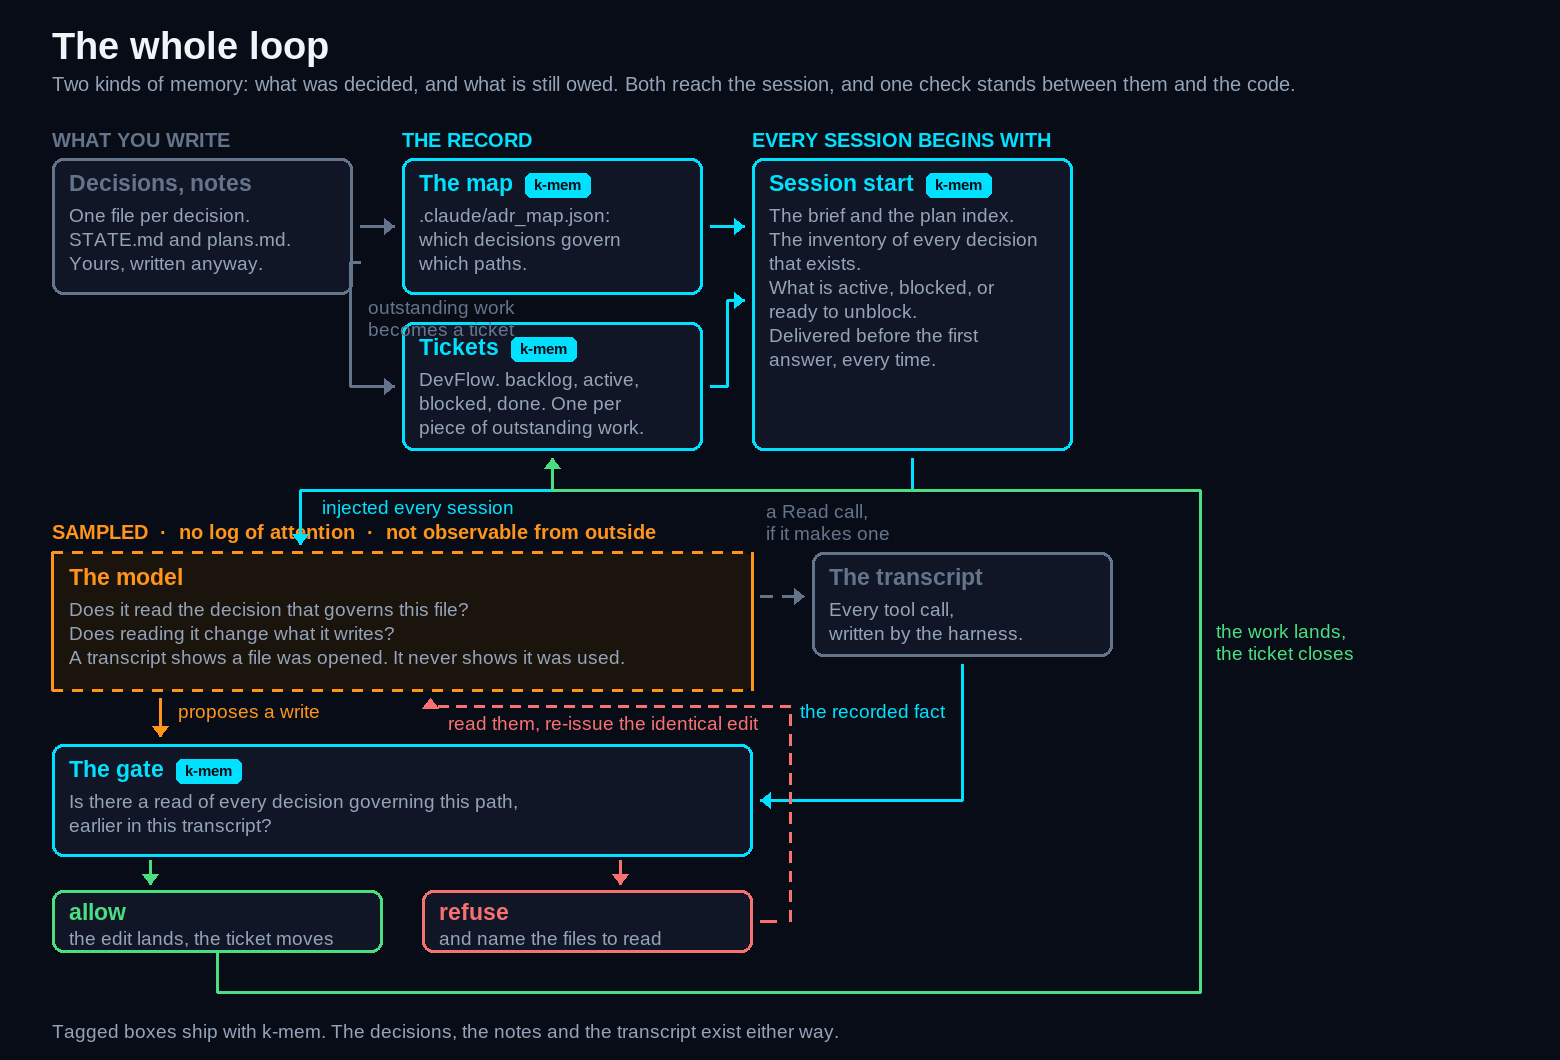
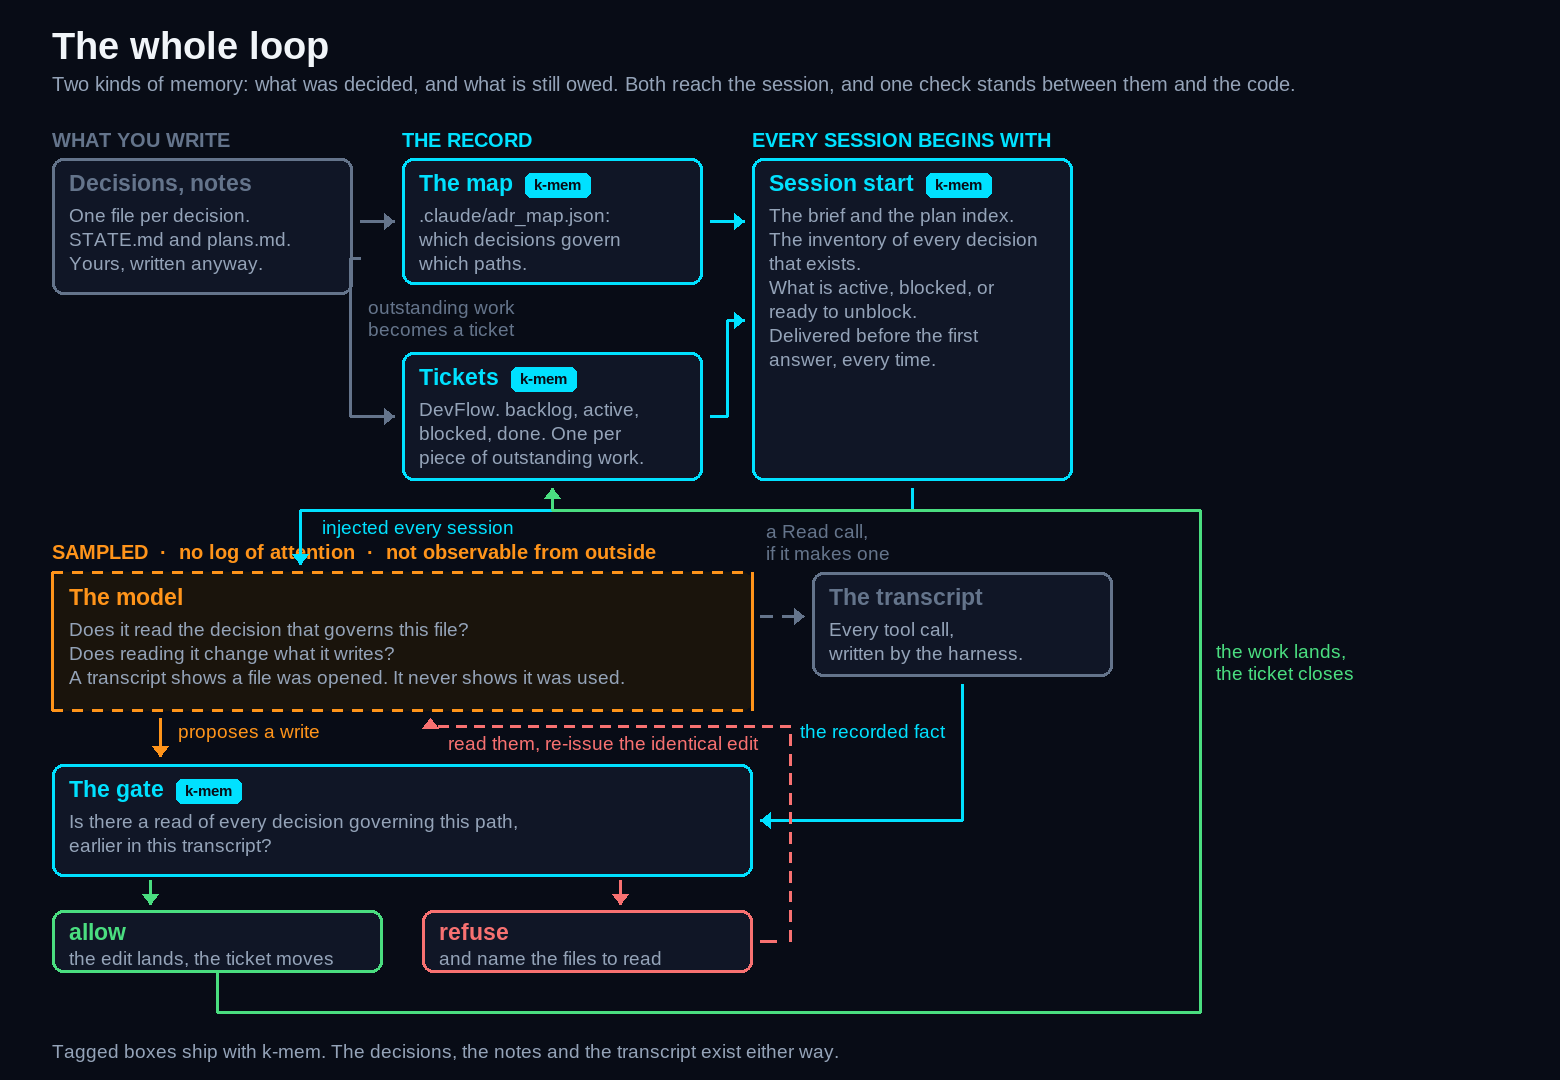
docs: give the ticket label room in the system diagram
"Outstanding work becomes a ticket" had 28 pixels between the map and
the tickets and needed about 50, so it sat across both boxes. The map is
shorter, the tickets sit lower, and everything below moved with them.
The return channel is now y=510.

diff --git a/scripts/make_brand_images.py b/scripts/make_brand_images.py
@@ -300,7 +300,7 @@ def make_system() -> Path:
     x=790 between the gate and the transcript, and x=1200 down the right.
     Nothing crosses a box.
     """
-    W, H = 1560, 1060
+    W, H = 1560, 1080
     im = Image.new("RGBA", (W, H), NAVY + (255,))
     d = ImageDraw.Draw(im)
     f_title = font(SANS_BOLD, 38)
@@ -370,9 +370,9 @@ def make_system() -> Path:
     d.text((402, 128), "THE RECORD", font=f_band, fill=CYAN)
     d.text((752, 128), "EVERY SESSION BEGINS WITH", font=f_band, fill=CYAN)
     card(M, 158, 300, 136, "Decisions, notes", ["One file per decision.", "STATE.md and plans.md.", "Yours, written anyway."], GREY)
-    card(402, 158, 300, 136, "The map", [".claude/adr_map.json:", "which decisions govern", "which paths."], CYAN, mine=True)
-    card(402, 322, 300, 128, "Tickets", ["DevFlow. backlog, active,", "blocked, done. One per", "piece of outstanding work."], CYAN, mine=True)
-    card(752, 158, 320, 292, "Session start", ["The brief and the plan index.",
+    card(402, 158, 300, 126, "The map", [".claude/adr_map.json:", "which decisions govern", "which paths."], CYAN, mine=True)
+    card(402, 352, 300, 128, "Tickets", ["DevFlow. backlog, active,", "blocked, done. One per", "piece of outstanding work."], CYAN, mine=True)
+    card(752, 158, 320, 322, "Session start", ["The brief and the plan index.",
                                                "The inventory of every decision",
                                                "that exists.", "",
                                                "What is active, blocked, or",
@@ -380,52 +380,52 @@ def make_system() -> Path:
                                                "Delivered before the first",
                                                "answer, every time."], CYAN, mine=True)
 
-    path([(M + 308, 226), (394, 226)], GREY)
-    path([(M + 308, 262), (350, 262), (350, 386), (394, 386)], GREY)
-    note(M + 316, 296, "outstanding work|becomes a ticket", GREY)
-    path([(710, 226), (744, 226)], CYAN)
-    path([(710, 386), (727, 386), (727, 300), (744, 300)], CYAN)
+    path([(M + 308, 221), (394, 221)], GREY)
+    path([(M + 308, 258), (350, 258), (350, 416), (394, 416)], GREY)
+    note(368, 296, "outstanding work|becomes a ticket", GREY)
+    path([(710, 221), (744, 221)], CYAN)
+    path([(710, 416), (727, 416), (727, 320), (744, 320)], CYAN)
 
     # --- the model ------------------------------------------------------------
-    d.text((M, 520), "SAMPLED  ·  no log of attention  ·  not observable from outside", font=f_band, fill=ORANGE)
-    card(M, 552, 700, 138, "The model", ["Does it read the decision that governs this file?",
+    d.text((M, 540), "SAMPLED  ·  no log of attention  ·  not observable from outside", font=f_band, fill=ORANGE)
+    card(M, 572, 700, 138, "The model", ["Does it read the decision that governs this file?",
                                          "Does reading it change what it writes?",
                                          "A transcript shows a file was opened. It never shows it was used."],
          ORANGE, fill=(26, 20, 12), dashed=True)
     # channel y=490, clear of everything
-    path([(912, 458), (912, 490), (300, 490), (300, 544)], CYAN)
-    note(322, 496, "injected every session", CYAN)
+    path([(912, 488), (912, 510), (300, 510), (300, 564)], CYAN)
+    note(322, 516, "injected every session", CYAN)
 
-    card(812, 552, 300, 104, "The transcript", ["Every tool call,", "written by the harness."], GREY)
-    path([(760, 596), (804, 596)], GREY, dashed=True)
-    note(766, 500, "a Read call,|if it makes one", GREY)
+    card(812, 572, 300, 104, "The transcript", ["Every tool call,", "written by the harness."], GREY)
+    path([(760, 616), (804, 616)], GREY, dashed=True)
+    note(766, 520, "a Read call,|if it makes one", GREY)
 
     # --- the gate -------------------------------------------------------------
-    card(M, 744, 700, 112, "The gate", ["Is there a read of every decision governing this path,",
+    card(M, 764, 700, 112, "The gate", ["Is there a read of every decision governing this path,",
                                         "earlier in this transcript?"], CYAN, mine=True)
-    path([(160, 698), (160, 736)], ORANGE)
-    note(178, 700, "proposes a write", ORANGE)
+    path([(160, 718), (160, 756)], ORANGE)
+    note(178, 720, "proposes a write", ORANGE)
     # transcript down the x=962 channel, into the gate's right edge
-    path([(962, 664), (962, 800), (760, 800)], CYAN)
-    note(800, 700, "the recorded fact", CYAN)
+    path([(962, 684), (962, 820), (760, 820)], CYAN)
+    note(800, 720, "the recorded fact", CYAN)
 
     # --- outcomes --------------------------------------------------------------
-    oy = 890
+    oy = 910
     d.rounded_rectangle([(M, oy), (M + 330, oy + 62)], radius=11, fill=PANEL + (255,), outline=GREEN + (255,), width=3)
     d.text((M + 17, oy + 9), "allow", font=f_box, fill=GREEN)
     d.text((M + 17, oy + 37), "the edit lands, the ticket moves", font=f_small, fill=MUTED)
     d.rounded_rectangle([(422, oy), (752, oy + 62)], radius=11, fill=PANEL + (255,), outline=RED + (255,), width=3)
     d.text((439, oy + 9), "refuse", font=f_box, fill=RED)
     d.text((439, oy + 37), "and name the files to read", font=f_small, fill=MUTED)
-    path([(150, 860), (150, oy - 6)], GREEN)
-    path([(620, 860), (620, oy - 6)], RED)
+    path([(150, 880), (150, oy - 6)], GREEN)
+    path([(620, 880), (620, oy - 6)], RED)
 
     # allow closes a ticket: down, out to the right gutter, back along y=490 to the ticket
-    path([(217, oy + 62), (217, 992), (1200, 992), (1200, 490), (552, 490), (552, 458)], GREEN)
-    note(1216, 620, "the work lands,|the ticket closes", GREEN)
+    path([(217, oy + 62), (217, 1012), (1200, 1012), (1200, 510), (552, 510), (552, 488)], GREEN)
+    note(1216, 640, "the work lands,|the ticket closes", GREEN)
     # a refusal sends the session back to read: around the gate's right, along y=712
-    path([(760, oy + 31), (790, oy + 31), (790, 706), (430, 706), (430, 698)], RED, dashed=True)
-    note(448, 712, "read them, re-issue the identical edit", RED)
+    path([(760, oy + 31), (790, oy + 31), (790, 726), (430, 726), (430, 718)], RED, dashed=True)
+    note(448, 732, "read them, re-issue the identical edit", RED)
 
     d.text((M, H - 40), "Tagged boxes ship with k-mem. The decisions, the notes and the transcript exist either way.", font=f_small, fill=MUTED)
     im.convert("RGB").save(ASSETS / "the-system.png", optimize=True)
